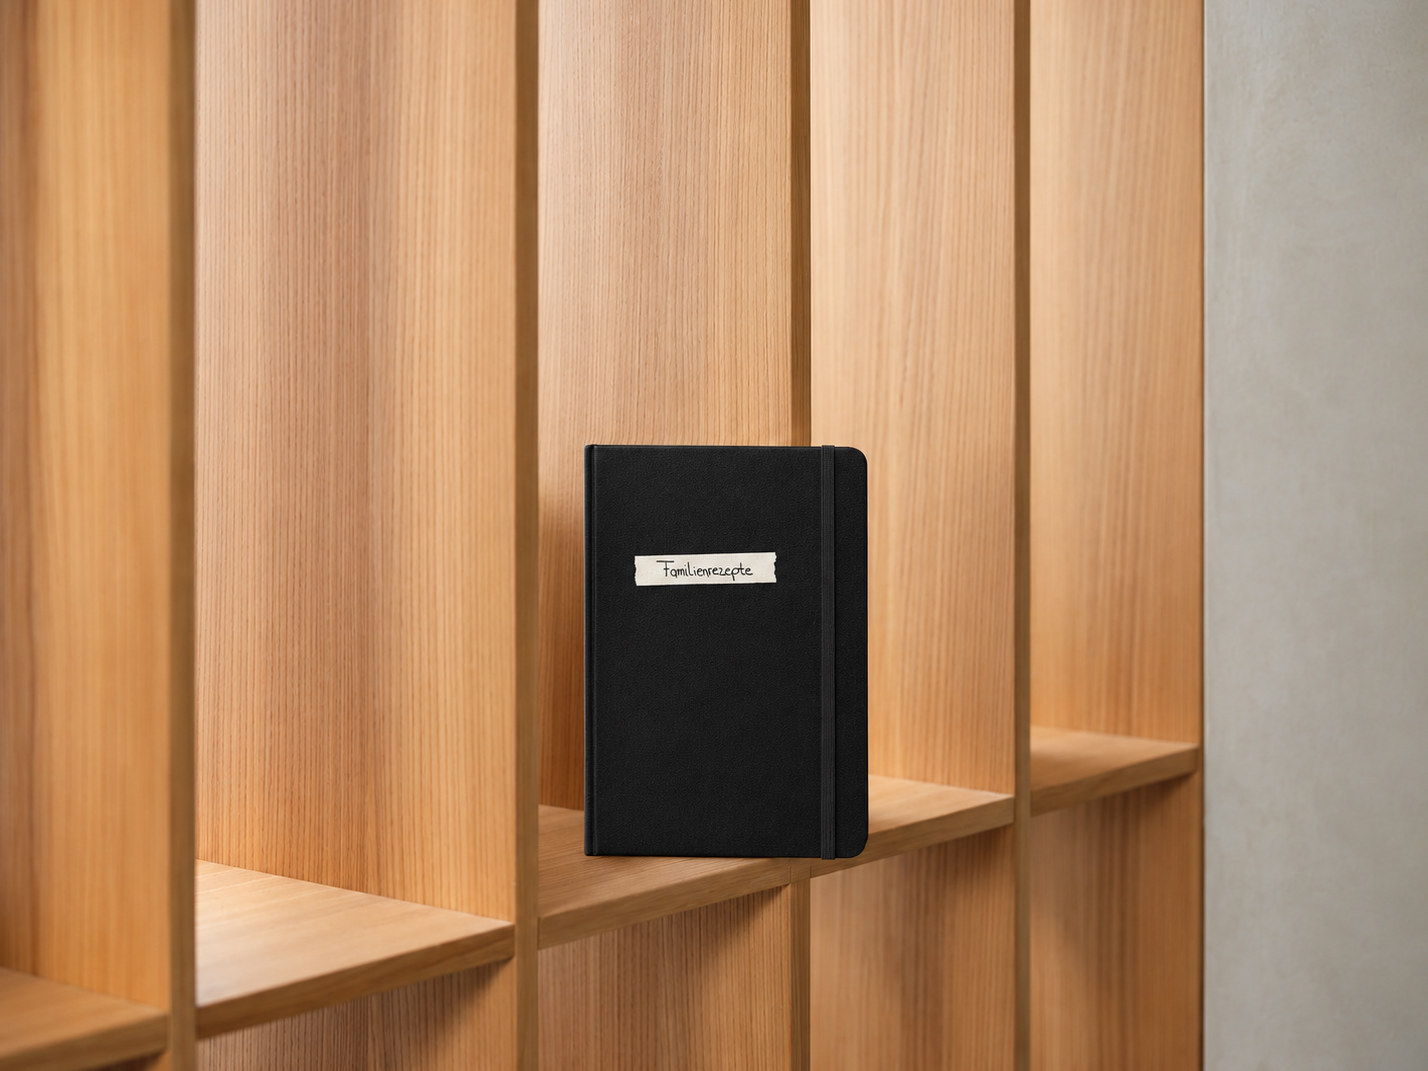
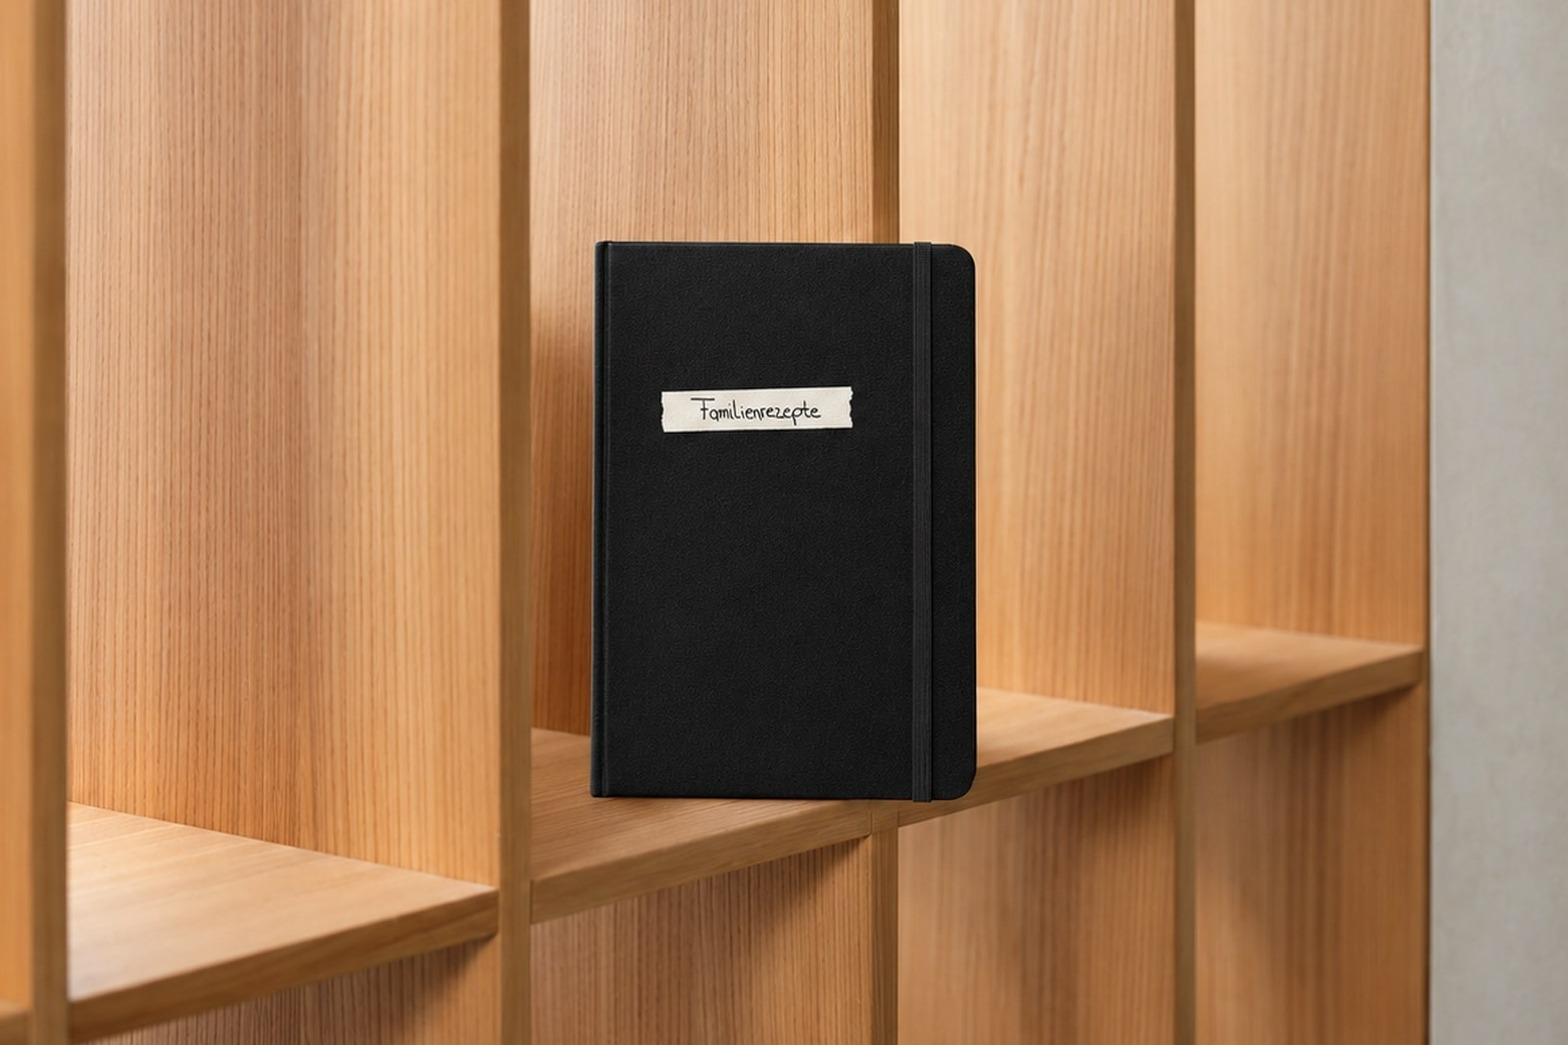
Project mockup update

diff --git a/content/projects/familienrezepte.md b/content/projects/familienrezepte.md
@@ -8,7 +8,7 @@ app: /projects/familienrezepte/app/
 year: "2026"
 # Picture on the card and at the top of the page. focus = which part stays in view when cropped (x% y%)
 image: ./images/familienrezepte/mockup.jpg
-focus: 50% 52%
+focus: 50% 50%
 ---
 
 The recipes in the book belong to the whole family. I wanted everyone to be able to open it, wherever they happen to be cooking. What mattered most was keeping the look and feel my sister gave it: her handwriting, her illustrations, and the experience of turning a page. So the book on the screen is a black notebook that opens like the real thing, and the recipes inside are hers, down to the dialect words and the dishes that never had exact measurements. Now the whole family can cook from it, and it is still the book she made for me.
